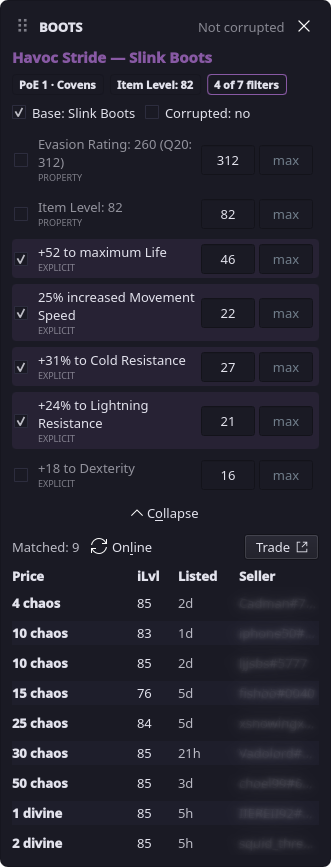
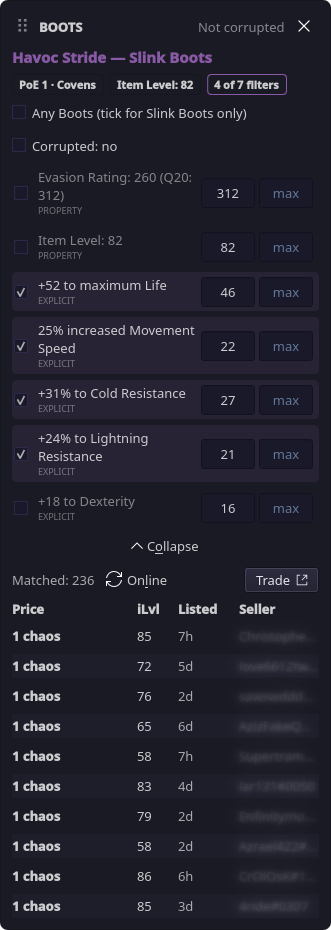
Update rare screenshots for category search; add LOOTLENS_GAME override
- Reshot PoE 1 and PoE 2 rare item screenshots with the "Any <class>" checkbox
- LOOTLENS_GAME=poe1|poe2 forces the game for one run (dev/screenshots), never saved

diff --git a/src/main.rs b/src/main.rs
@@ -23,7 +23,16 @@ pub enum Event {
     Quit,
 }
 
-pub static CONFIG: LazyLock<Mutex<Config>> = LazyLock::new(|| Mutex::new(Config::load()));
+pub static CONFIG: LazyLock<Mutex<Config>> = LazyLock::new(|| {
+    let mut c = Config::load();
+    // Dev aid: LOOTLENS_GAME=poe1|poe2 overrides the game for this run (e.g. for screenshots).
+    match std::env::var("LOOTLENS_GAME").as_deref() {
+        Ok("poe1") => c.game = Game::Poe1,
+        Ok("poe2") => c.game = Game::Poe2,
+        _ => {}
+    }
+    Mutex::new(c)
+});
 static EVENTS: OnceLock<async_channel::Sender<Event>> = OnceLock::new();
 static CHECK_GEN: AtomicU64 = AtomicU64::new(0);
 

diff --git a/README.md b/README.md
@@ -180,6 +180,7 @@ cargo build
 cargo test
 LOOTLENS_DEMO=dev/boots.txt cargo run         # price-check an item text file without the game
 LOOTLENS_SNAPSHOT=/tmp/shots LOOTLENS_DEMO=dev/boots.txt cargo run   # also save README screenshots
+LOOTLENS_GAME=poe2 LOOTLENS_DEMO=dev/boots-poe2.txt cargo run       # force a game for this run
 ```
 
 | Path | What |
